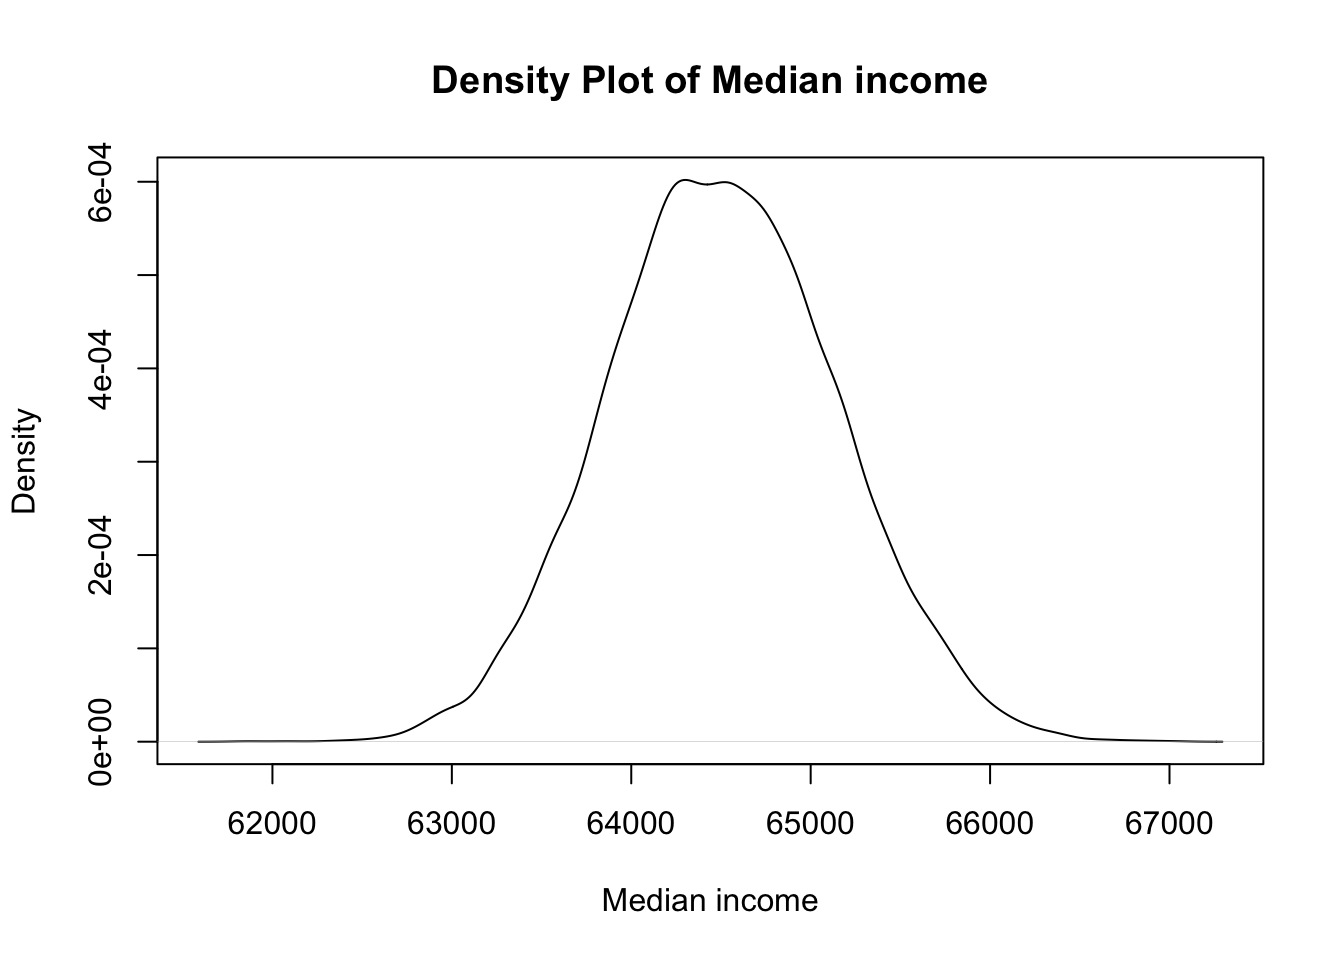
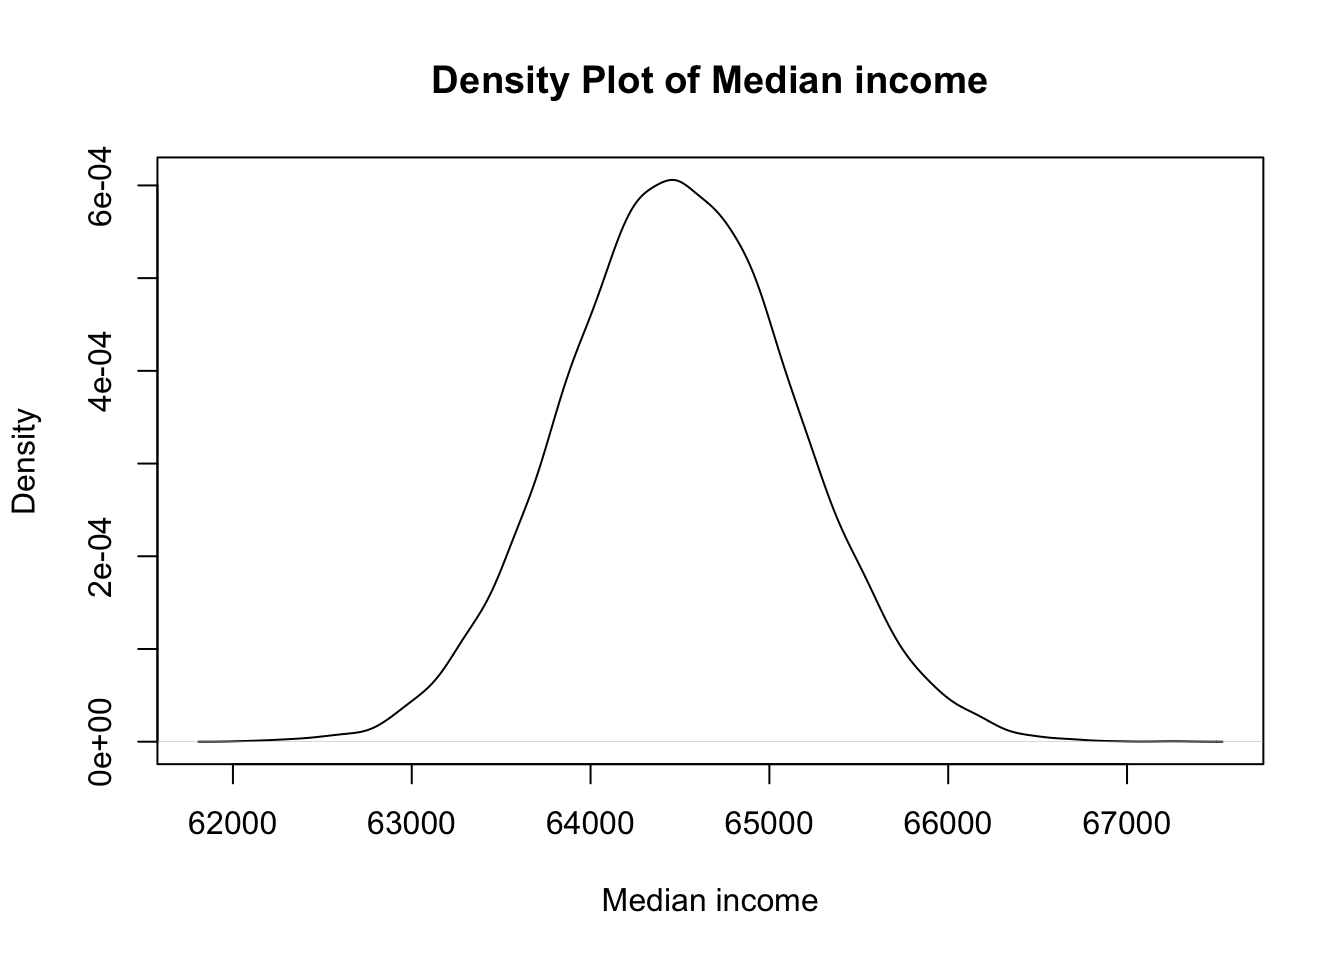
2191024

diff --git a/docs/posts/montecarlo.html b/docs/posts/montecarlo.html
@@ -1099,7 +1099,7 @@ Income distribution is not normal
 </details>
 <div class="cell-output cell-output-stdout">
 <pre><code>     Min.   1st Qu.    Median      Mean   3rd Qu.      Max. 
-2.086e+05 2.949e+05 3.416e+05 1.390e+06 4.323e+05 6.031e+09 </code></pre>
+   209412    297022    345375    694335    436864 815246030 </code></pre>
 </div>
 <details open="" class="code-fold">
 <summary>Code</summary>
@@ -1107,7 +1107,7 @@ Income distribution is not normal
 </details>
 <div class="cell-output cell-output-stdout">
 <pre><code>   Min. 1st Qu.  Median    Mean 3rd Qu.    Max. 
-  61859   64076   64500   64508   64938   67023 </code></pre>
+  62084   64065   64495   64502   64934   67256 </code></pre>
 </div>
 <details open="" class="code-fold">
 <summary>Code</summary>
@@ -1115,7 +1115,7 @@ Income distribution is not normal
 </details>
 <div class="cell-output cell-output-stdout">
 <pre><code>     Min.   1st Qu.    Median      Mean   3rd Qu.      Max. 
-1.022e+06 3.278e+06 5.557e+06 1.098e+08 1.179e+07 6.031e+11 </code></pre>
+9.130e+05 3.379e+06 5.760e+06 4.003e+07 1.205e+07 8.149e+10 </code></pre>
 </div>
 </div>
 </section>

diff --git a/docs/Biomedical/Research Methodology/wrangling.html b/docs/Biomedical/Research Methodology/wrangling.html
@@ -2396,8 +2396,8 @@ Record
    &lt;int&gt; &lt;int&gt; &lt;fctr&gt;
 1:     1     1  child
 2:     2     1  child
-3:     3     1  child
-4:     4     0  child
+3:     3     0  child
+4:     4     1  child
 5:     5     0  child
 6:     6     0  child</code></pre>
 </div>
@@ -2419,8 +2419,8 @@ Record
    &lt;int&gt; &lt;fctr&gt; &lt;fctr&gt;
 1:     1   &lt;NA&gt;  child
 2:     2   &lt;NA&gt;  child
-3:     3   &lt;NA&gt;  child
-4:     4  child   &lt;NA&gt;
+3:     3  child   &lt;NA&gt;
+4:     4   &lt;NA&gt;  child
 5:     5  child   &lt;NA&gt;
 6:     6  child   &lt;NA&gt;</code></pre>
 </div>

diff --git a/docs/Revision notes/Diagrams/diagrams.html b/docs/Revision notes/Diagrams/diagrams.html
@@ -1388,7 +1388,7 @@ window.document.addEventListener("DOMContentLoaded", function (event) {
 </div>
   </div>
 </footer>
-<script>var lightboxQuarto = GLightbox({"openEffect":"zoom","closeEffect":"zoom","descPosition":"bottom","selector":".lightbox","loop":false});
+<script>var lightboxQuarto = GLightbox({"descPosition":"bottom","openEffect":"zoom","selector":".lightbox","loop":false,"closeEffect":"zoom"});
 (function() {
   let previousOnload = window.onload;
   window.onload = () => {
